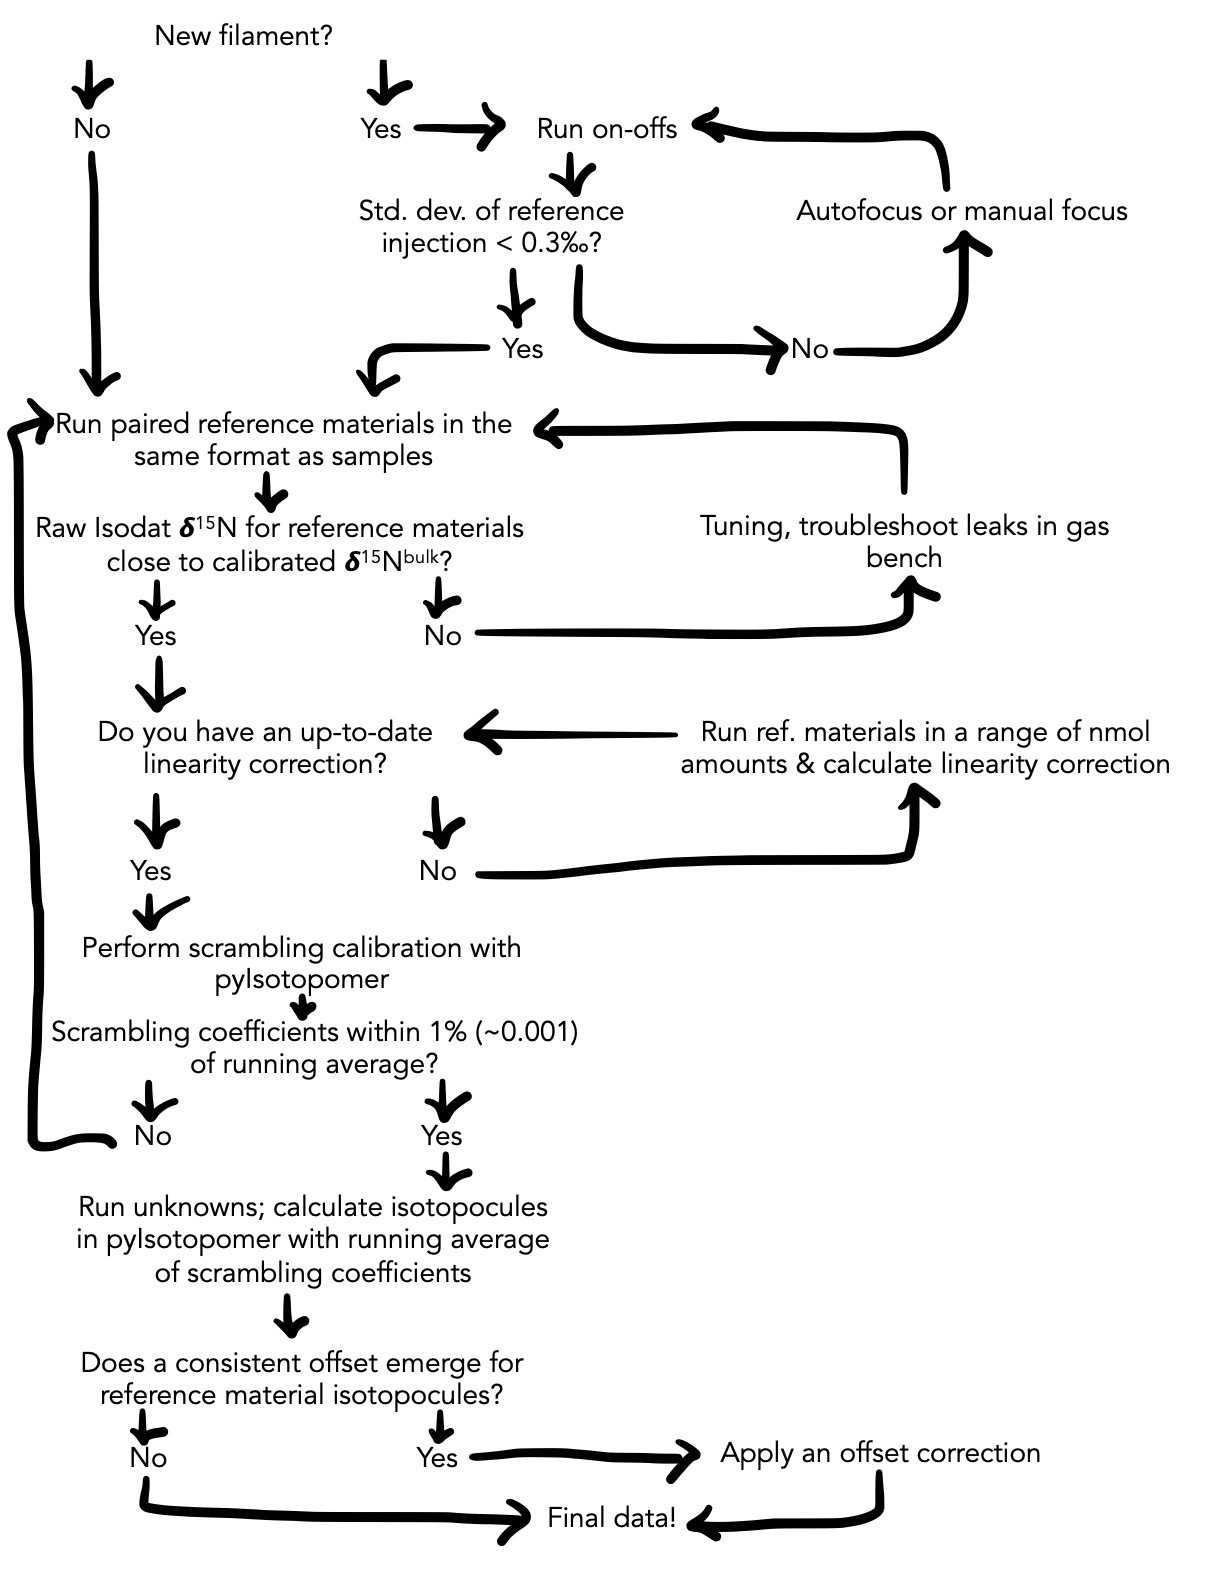
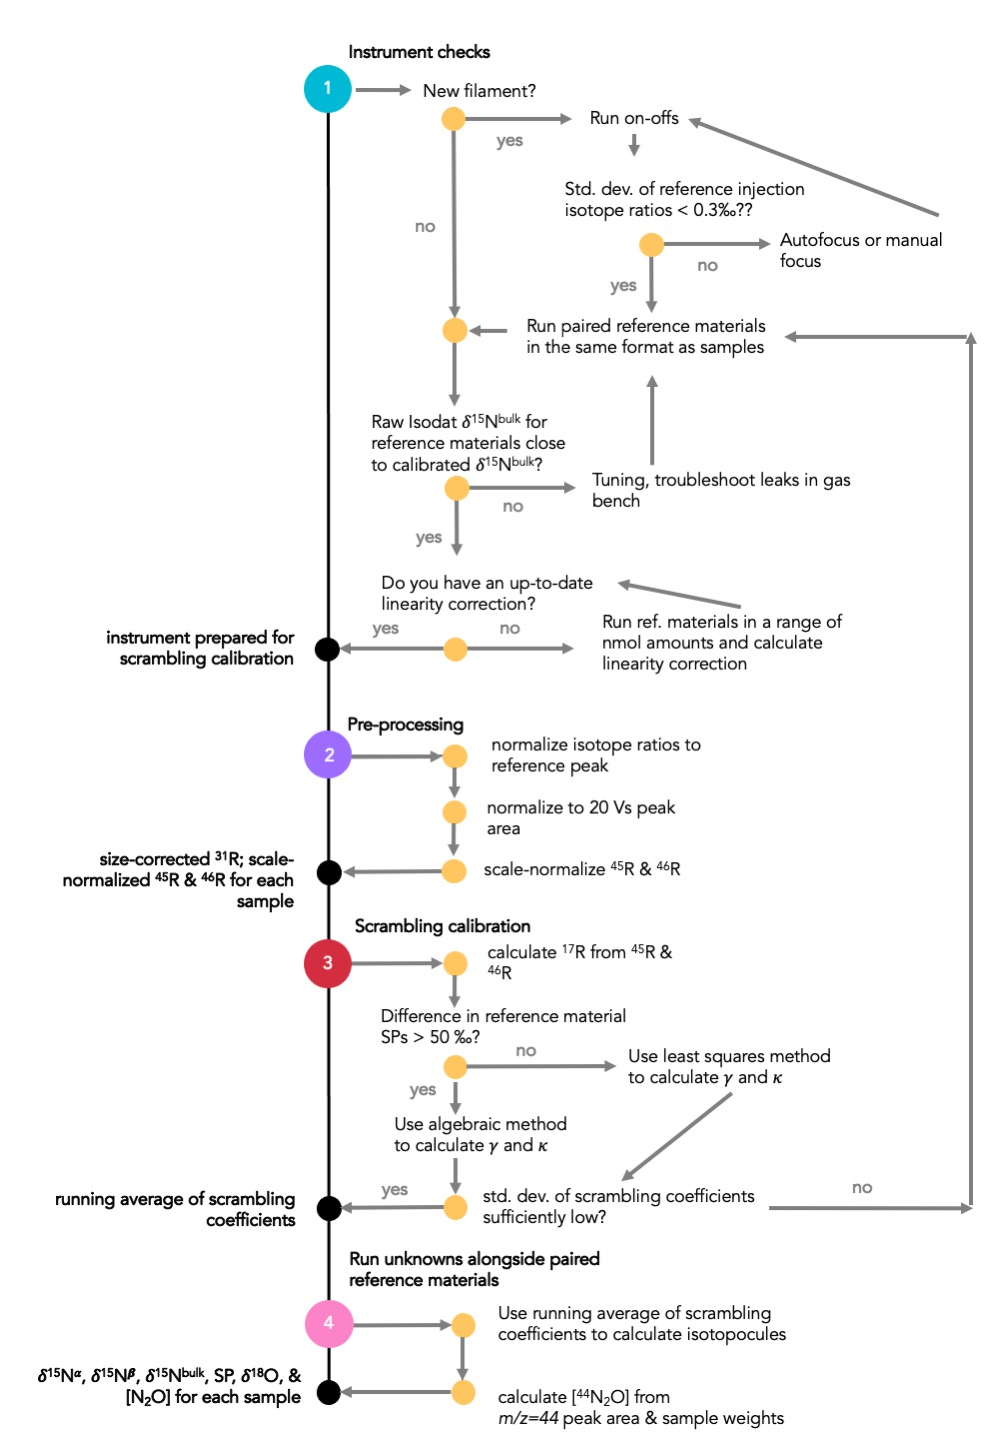
new flowchart

Changed region(s): [[0.0, 0.0309, 0.992, 0.9897], [0.124, 0.0, 0.279, 0.0309]]

diff --git a/README.md b/README.md
@@ -13,7 +13,7 @@ pyisotopomer is a Python toolbox for processing nitrous oxide (N<sub>2</sub>O) i
 
 While the scrambling calibration is an integral part of obtaining high-quality N<sub>2</sub>O  isotopocule data from isotope ratio mass spectrometry, this calibration is part of a larger data processing pipeline. The scrambling calibration and isotopocule calculation steps can be performed in pyisotopomer.
 
-![](Flowchart.pdf)
+![](flowchart.jpg)
 
 **Contents:**
 - [pyisotopomer](#pyisotopomer)
